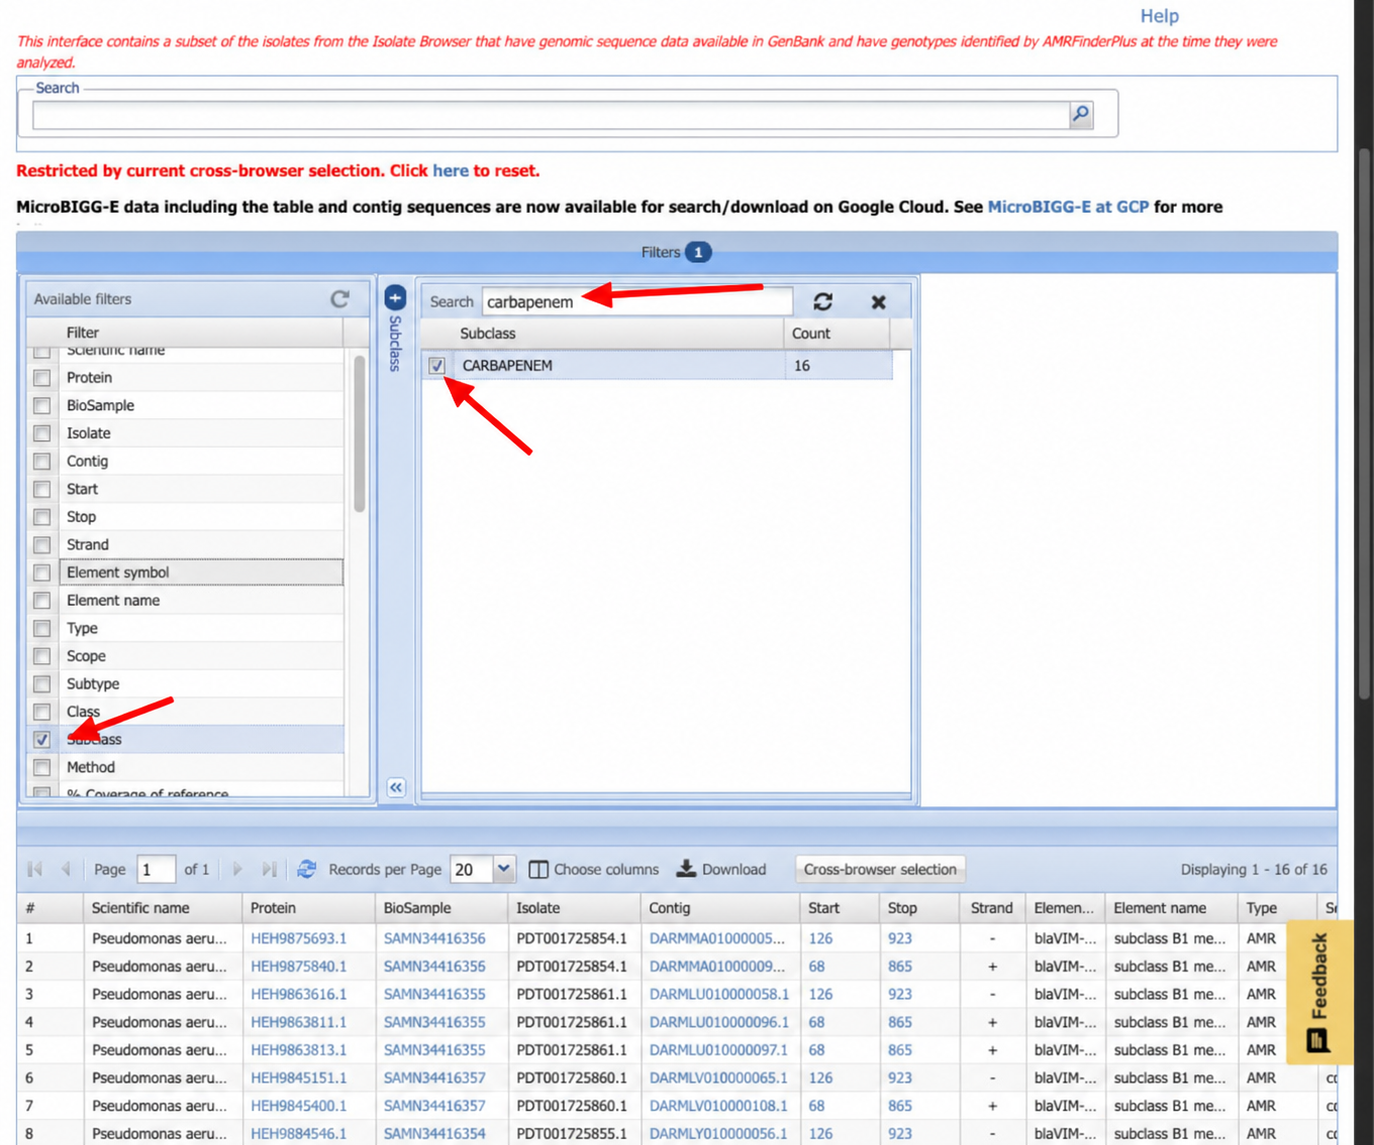
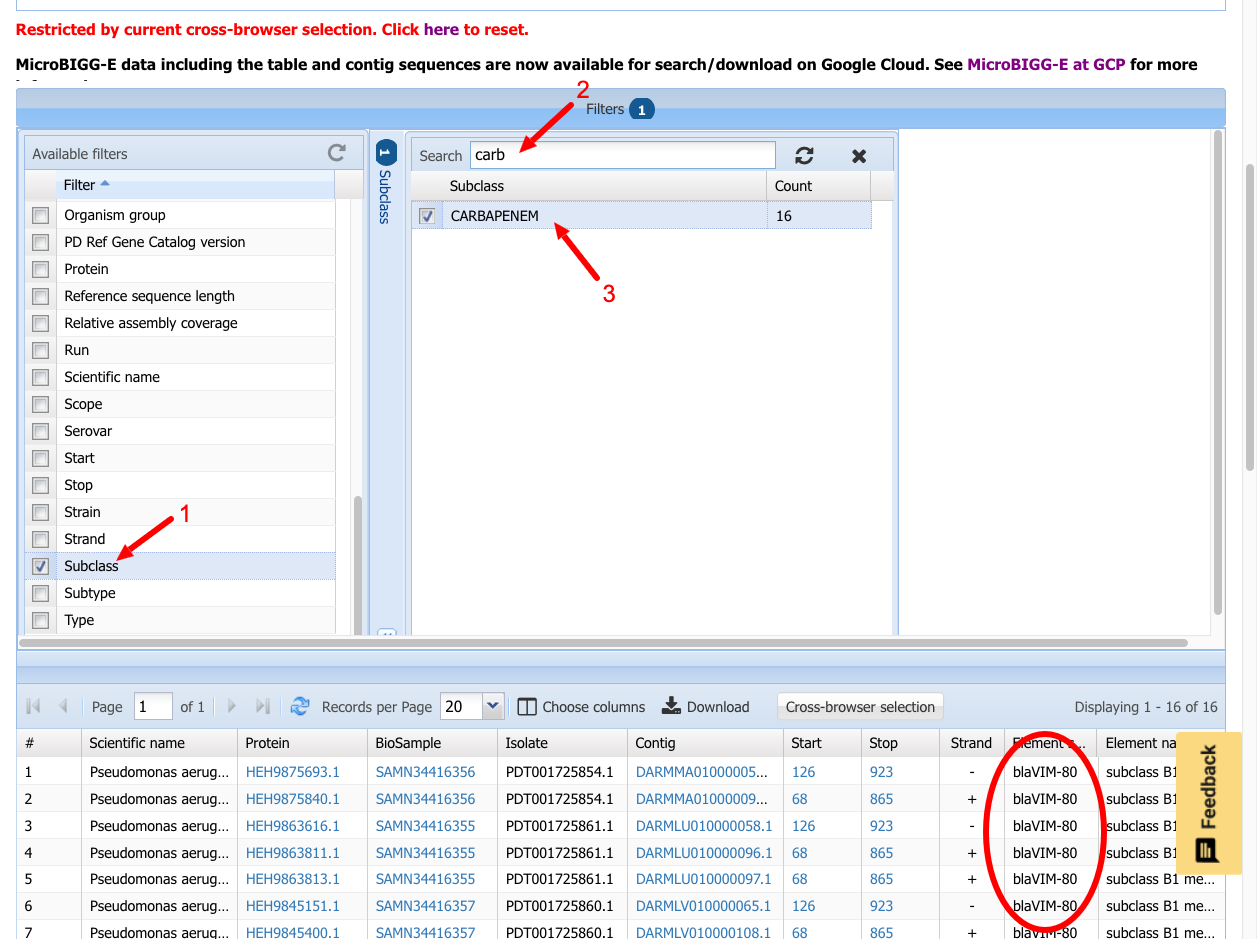
Fixes to amr and metagenomics exercises

diff --git a/amr/README.md b/amr/README.md
@@ -1,5 +1,11 @@
 # Antibiotic resistance: exploring resistance genes and comparing phenotypes
 
+## Contents
+
+- [Exercise 1: explore carbapenem resistance in eye-drop isolates](#exercise-1-explore-carbapenem-resistance-in-eye-drop-isolates)
+- [Exercise 2: compare ciprofloxacin genotypes and phenotypes](#exercise-2-compare-ciprofloxacin-genotypes-and-phenotypes)
+- [Exercise 3: run AMRFinderPlus on a Staphylococcus epidermidis genome](#exercise-3-run-amrfinderplus-on-a-staphylococcus-epidermidis-genome)
+
 Explore antimicrobial resistance in _Pseudomonas aeruginosa_ using NCBI Pathogen Detection. First, investigate carbapenem resistance genes in isolates associated with contaminated eye drops. Then, compare quinolone-associated AMRFinderPlus results with laboratory ciprofloxacin antibiotic susceptibility test (AST) results. Finally, download a _Staphylococcus epidermidis_ genome and run AMRFinderPlus yourself.
 
 ## Background: AMRFinderPlus and Pathogen Detection AMR resources
@@ -35,23 +41,23 @@ Carbapenem-resistant _Pseudomonas aeruginosa_ (CRPA) was associated with the [20
 
 ### 1. Sign in and search the Isolates Browser
 
-Open the [Isolates Browser](https://www.ncbi.nlm.nih.gov/pathogens/isolates/) and click **Log in** in the upper-right corner. Sign in to your NCBI account, or create an account if needed.
+Open the [Isolates Browser](https://www.ncbi.nlm.nih.gov/pathogens/isolates/). If you're not already logged in, click **Log in** in the upper-right corner. Sign in to your NCBI account, or create an account if needed.
 
 Enter this query in the search bar:
 
 ```text
-blaVIM AND taxgroup_name:Pseudo* AND lubricant eye drop
+taxgroup_name:Pseudo* AND lubricant eye drop
 ```
 
-You can also [open the search results](https://www.ncbi.nlm.nih.gov/pathogens/isolates/#blaVIM%20AND%20taxgroup_name%3APseudo%2A%20AND%20lubricant%20eye%20drop). The query combines a VIM gene-family term, a wildcard organism-group search, and terms describing the eye-drop source. Because `Pseudo*` is a wildcard, results can include other _Pseudomonas_ groups, such as _P. putida_, as well as _P. aeruginosa_.
+You can also use this [direct link](https://www.ncbi.nlm.nih.gov/pathogens/isolates/#blaVIM%20AND%20taxgroup_name%3APseudo%2A%20AND%20lubricant%20eye%20drop). The query combines a VIM gene-family term, a wildcard organism-group search, and terms describing the eye-drop source. Because `Pseudo*` is a wildcard, results can include other _Pseudomonas_ groups, such as _P. putida_, as well as _P. aeruginosa_.
+
+Note that we use a number of features of the query language here. Multiple search terms combined with `AND` (capitalization is important). Field names (`taxgroup_name:`) with a wildcard (`taxgroup_name:Pseudo*`). And multiple search terms implicitly OR'd together (`lubricant eye drop` is the equivalent of `lubricant OR eye OR drop`).
 
 ![Step 1: Isolates Browser search results for VIM genes and lubricant eye drops](../images/amr-exercise-1-step-01-isolate-search-annotated.png)
 
 ### 2. Inspect a matching isolate
 
-Choose one matching record to inspect. Look at its **Isolation source** and **AMR genotypes** fields: how does the source relate to the eye-drop investigation, and which resistance markers are reported? If needed, use **Choose columns** to display these fields.
-
-Keep the full set of search results for the next step. You will transfer all matching isolates, not just the record you inspected.
+Choose one matching record to inspect. Look at its **Isolation source** and **AMR genotypes** fields: Which resistance markers are reported? If needed, use **Choose columns** to display these fields.
 
 > Search results can change as data are added or updated. Use the available records rather than expecting a fixed number of isolates.
 
@@ -59,7 +65,7 @@ Keep the full set of search results for the next step. You will transfer all mat
 
 Click **Cross-browser selection**, then confirm that all matching isolates remain selected. All search results are selected by default; do not limit the selection to the single record you inspected.
 
-Choose **Show in MicroBIGG-E**. A new tab opens with available AMRFinderPlus results for the selected isolates. Each row represents a detected genetic element rather than an isolate, so an isolate can contribute multiple rows. See the [NCBI browser help](https://www.ncbi.nlm.nih.gov/pathogens/pathogens_help/) for details about cross-browser selection and filters.
+Choose **Show in MicroBIGG-E**. A new tab opens with *all* available AMRFinderPlus results for the selected isolates. Each row represents a detected genetic element rather than an isolate, so an isolate can contribute multiple rows. See the [NCBI browser help](https://www.ncbi.nlm.nih.gov/pathogens/pathogens_help/) for details about cross-browser selection and filters.
 
 ![Step 3: Matching isolates selected for Show in MicroBIGG-E](../images/amr-exercise-1-step-03-cross-browser-selection-annotated.png)
 
@@ -78,9 +84,7 @@ Keep the transferred isolate selection active while applying this filter. The ta
 
 ### 5. Discover the VIM allele
 
-With the **CARBAPENEM** filter still active, open the **Element symbol** filter. Inspect the available symbols and identify the VIM allele. Select that symbol to display its matching rows in the table, then examine the **Element symbol** and **Element name** annotations.
-
-![Step 5: CARBAPENEM and the discovered VIM allele selected in MicroBIGG-E](../images/amr-exercise-1-step-05-element-symbol-annotated.png)
+Look down at the results table. What allele do you see in the **Element symbol** field? With the **CARBAPENEM** filter still active, you can also open the **Element symbol** filter. Inspect the available symbols and identify the VIM allele.
 
 ### 6. Interpret the results
 
@@ -92,7 +96,7 @@ With the **CARBAPENEM** filter still active, open the **Element symbol** filter.
 
 The expected allele for this outbreak example is **`blaVIM-80`**, which encodes a VIM-family metallo-beta-lactamase. Its **CARBAPENEM** annotation identifies it as a resistance determinant associated with that antibiotic subclass.
 
-This is a sequence-based annotation, not a measured susceptibility result for the isolate. AST measures the isolate's response to an antibiotic under laboratory conditions. Exercise 2 explores how genotype annotations and measured phenotypes relate to one another.
+> This is a sequence-based annotation, not a measured susceptibility result for the isolate. AST measures the isolate's response to an antibiotic under laboratory conditions. Exercise 2 explores how genotype annotations and measured phenotypes relate to one another.
 
 The expected allele reflects the documented outbreak; the records and filter choices available in the live browsers may change.
 
@@ -100,11 +104,13 @@ The expected allele reflects the documented outbreak; the records and filter cho
 
 ## Exercise 2: compare ciprofloxacin genotypes and phenotypes
 
+In this exercise we're going to examine the phenotypic effect of fluoroquinolone resistance elements on ciprofloxacin antibiotic susceptibility tests (AST) in _Pseudomonas aeruginosa_ using the [AMRgen R package](https://amrgen.org/) from the [ESGEM-AMR working group](https://esgem-amr.amrrules.org/).
+
 ### Part 1: download phenotype data
 
 #### 1. Sign in and open the AST Browser
 
-Go to the [Pathogen Detection homepage](https://www.ncbi.nlm.nih.gov/pathogens/) and click **Log in** in the upper-right corner. Sign in to your NCBI account, or create an account if needed.
+If you're not already logged in, go to the [Pathogen Detection homepage](https://www.ncbi.nlm.nih.gov/pathogens/) and click **Log in** in the upper-right corner. Sign in to your NCBI account, or create an account if needed.
 
 Open the [Antibiotic Susceptibility Test (AST) Browser](https://www.ncbi.nlm.nih.gov/pathogens/ast/).
 
@@ -196,9 +202,7 @@ Open the workshop Jupyter environment. Navigate to your working directory and us
 
 ![Jupyter upload button](https://raw.githubusercontent.com/ncbi/workshop-asm-big-2026/refs/heads/main/images/amr10-jupyter_upload_button.png)
 
-Also place the supplied [compare_amr.R](compare_amr.R) script in that directory. If you are using a checkout of this repository in Jupyter, the script is already in the `amr` directory; upload your tables there.
-
-#### 9. Open a terminal and run the script
+#### 9. Open a terminal 
 
 In Jupyter, click **+** to open a Launcher, then select **Terminal**. A terminal lets you run programs by typing commands. Its **working directory** is the folder where commands look for input files and save output files.
 
@@ -212,6 +216,18 @@ ls
 ```
 
 `pwd` prints the working directory's path; `ls` lists its files. Make sure you see `compare_amr.R`, `asts.tsv`, and `microbigge.tsv`. If they are in another folder, use `cd` (change directory) followed by that folder's path. For example, if your working directory is the repository's top-level folder, run `cd amr`. Then run `ls` again.
+
+#### 10. Upload the analysis script
+
+Also place the supplied [compare_amr.R](compare_amr.R) script in that directory. If you are using a checkout of this repository in Jupyter, the script should already be in the `amr` directory; upload your tables there.
+
+Or run the following to download it from the GitHub site:
+
+```
+curl -fsSLO https://raw.githubusercontent.com/ncbi/workshop-asm-big-2026/refs/heads/edits/amr/compare_amr.R
+```
+
+#### 11. Run the analysis script
 
 Copy and paste the entire command below, then press **Enter**. A backslash (`\`) at the end of a line continues the same command on the next line; keep it as the last character on that line, with no spaces after it. Wait for the terminal prompt to return before entering another command.
 
@@ -228,7 +244,7 @@ The script requires R and the `optparse`, `dplyr`, `AMRgen`, `AMR`, and `ggplot2
 
 > **If something goes wrong:** For a missing-file error, run `pwd` and `ls` to check that you are in the folder containing all three files and that their names match the command. If the terminal shows a `>` continuation prompt after a partial paste, press **Ctrl+C** and paste the complete command again. If `Rscript` is not found, confirm that you are in the workshop Jupyter terminal and ask an instructor for help.
 
-#### 10. Inspect the plot
+#### 12. Inspect the plot
 
 Open the generated `Rplots.pdf` in Jupyter. Compare it with the [example plot](https://raw.githubusercontent.com/ncbi/workshop-asm-big-2026/refs/heads/main/images/Rplots.pdf); your results may differ as the underlying data change.
 
@@ -241,7 +257,7 @@ The UpSet plot summarizes combinations of resistance markers and their associate
 
 A minimum inhibitory concentration is the lowest tested antibiotic concentration that inhibits visible growth. Interpret the plot in the context of the available measurements, the selected interpretation standard, and the resistance mechanisms represented in the genotype data.
 
-## Final project: run AMRFinderPlus on a Staphylococcus epidermidis genome
+## Exercise 3: run AMRFinderPlus on a Staphylococcus epidermidis genome
 
 Pathogen Detection analyzes selected organism groups, but you can run AMRFinderPlus yourself on other assembled genomes. In this project, you will analyze a _Staphylococcus epidermidis_ genome, which is not currently included among the [Pathogen Detection organism groups with results](https://ftp.ncbi.nlm.nih.gov/pathogen/Results/). You will download the RefSeq assembly [GCF_019329745.1](https://www.ncbi.nlm.nih.gov/datasets/genome/GCF_019329745.1/) (strain B1276912) and its annotations, run AMRFinderPlus, and locate an aminoglycoside resistance gene. The main goal is to learn the workflow for analyzing a genome yourself.
 

diff --git a/metagenomics/README.md b/metagenomics/README.md
@@ -64,7 +64,7 @@ For commands spanning several lines, copy and paste the entire block. A trailing
 
 #### 2. Download published plasmid assemblies and metadata
 
-Download the assembly file from the study's data collection:
+Download the assembly file from the study's data collection. They have supplementary data on figshare:
 
 ```bash
 wget -O contigs.fa.gz https://ndownloader.figshare.com/files/21229998
